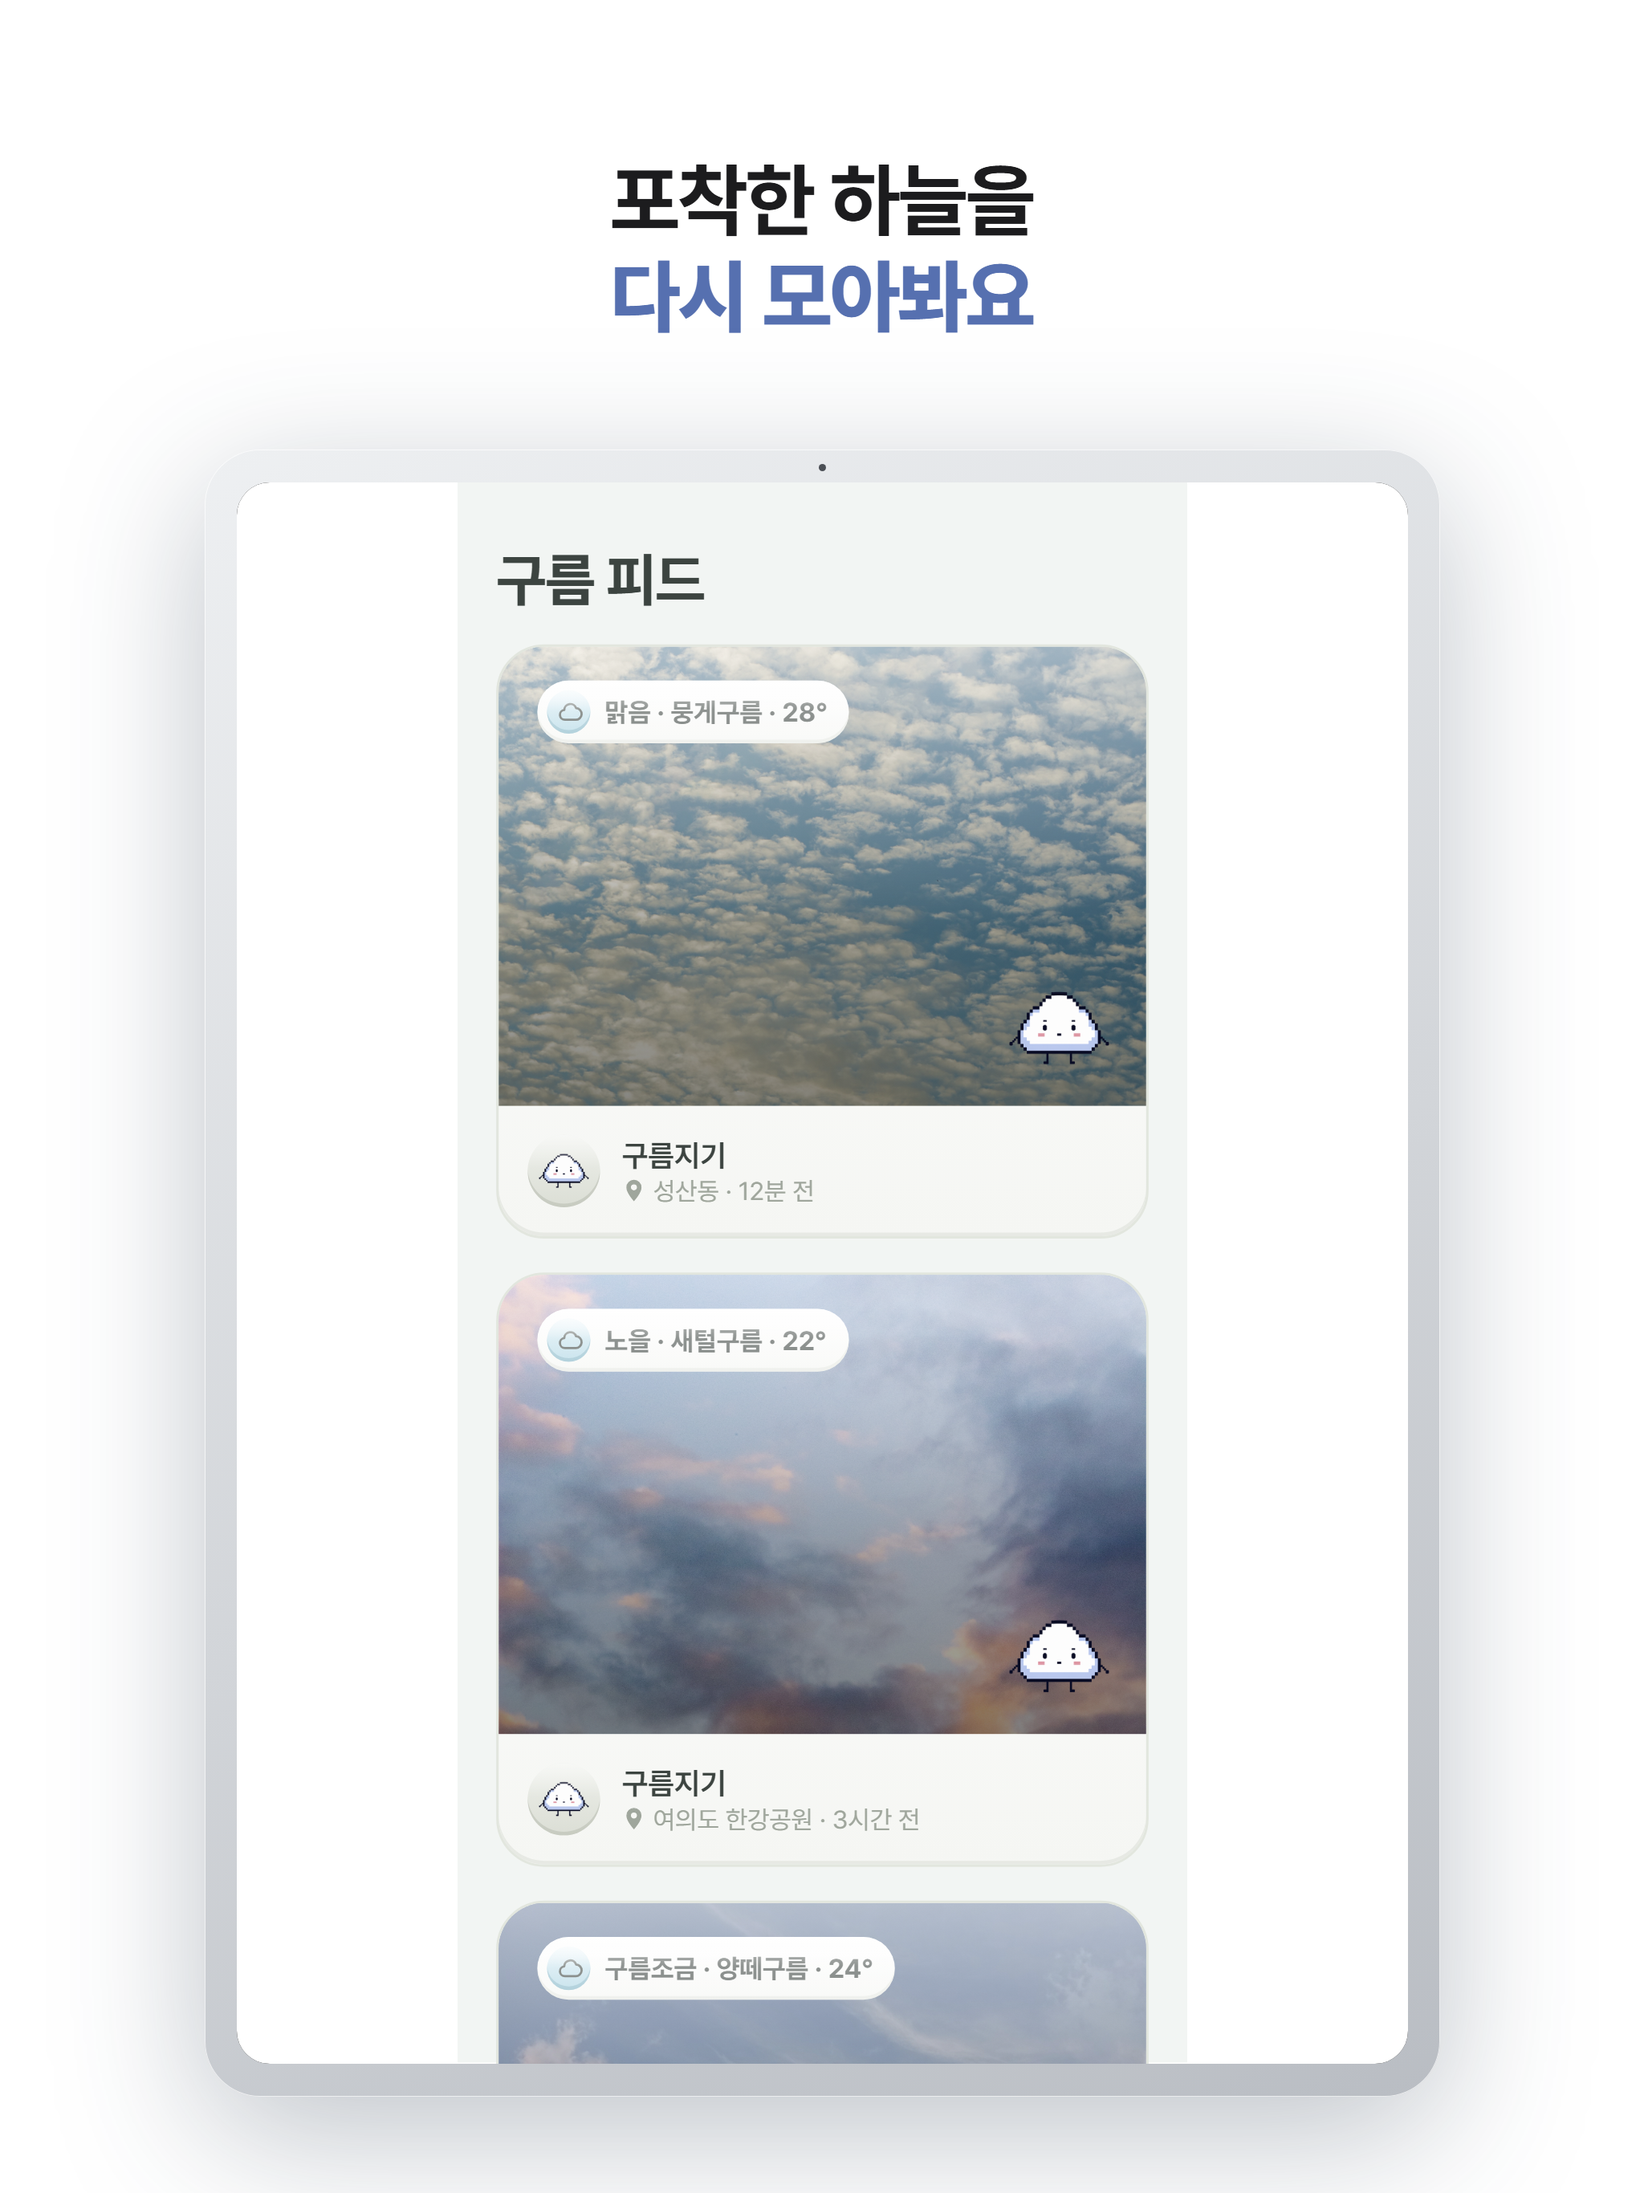
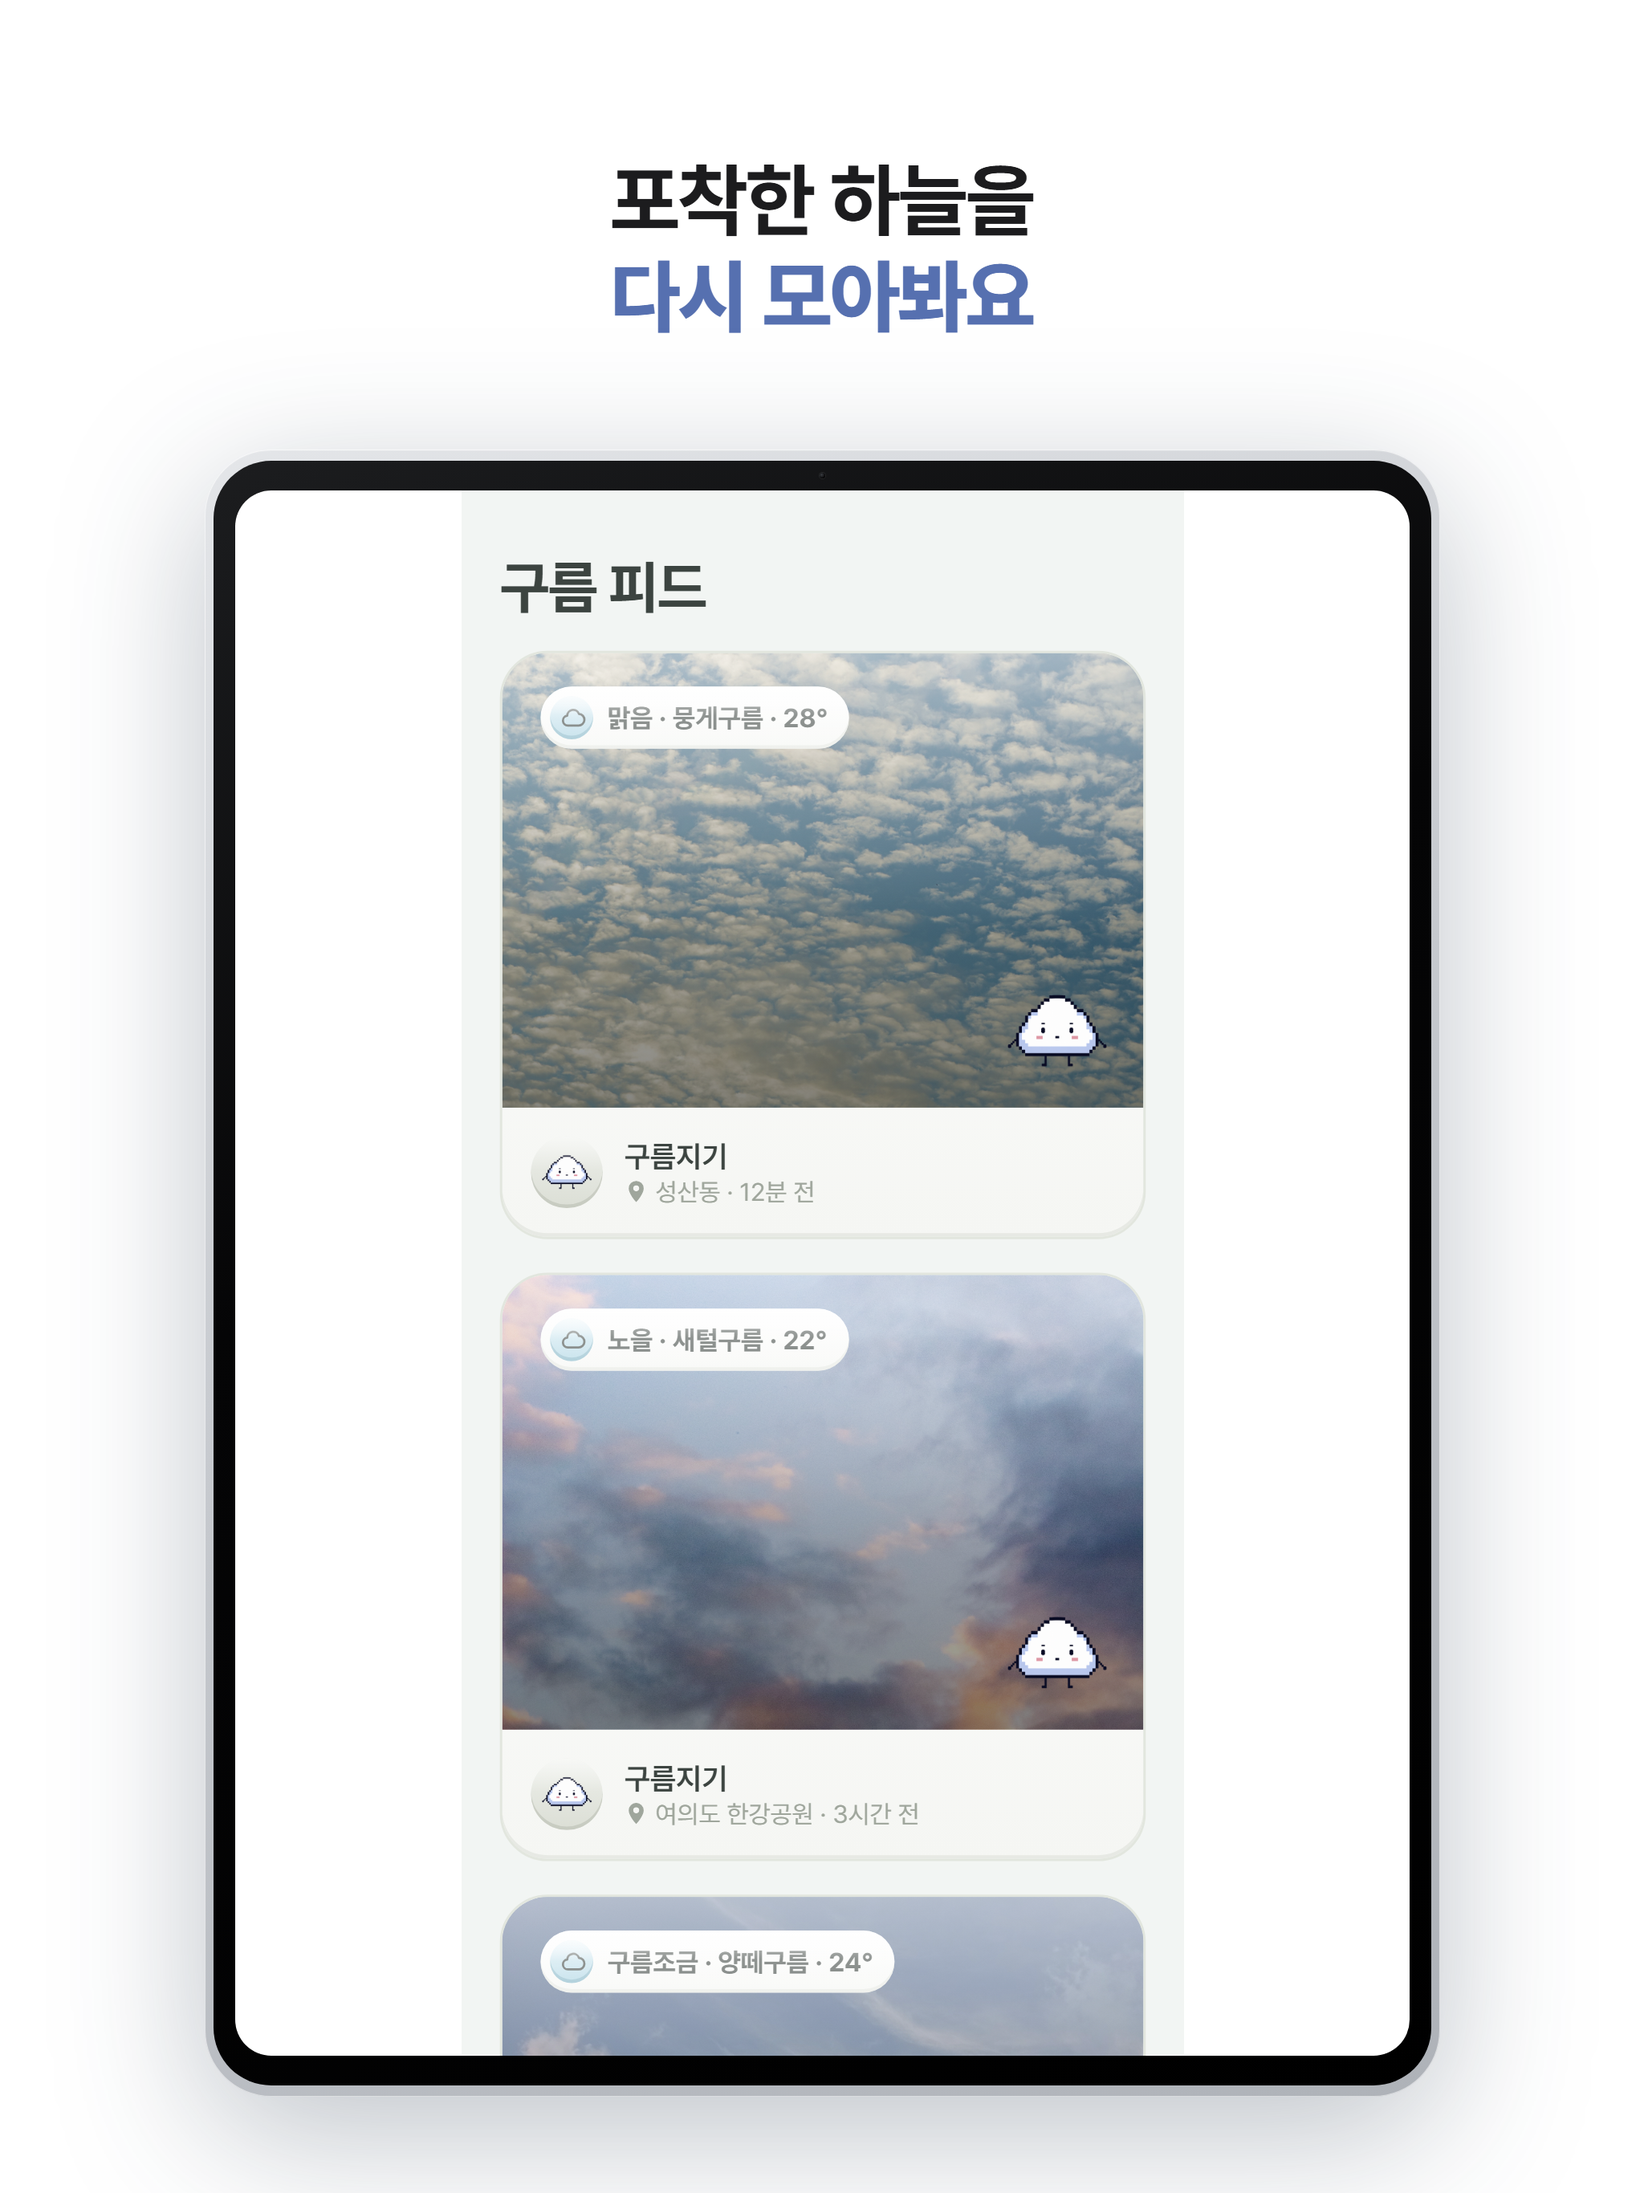
fix: give the iPad mockup an actual black bezel
IpadFrame previously went straight from the aluminum body to the (white)
screen content with no bezel layer in between, so nothing read as a
tablet border. Adds the black glass bezel ring real iPads actually show,
sized closer to a real device (thin aluminum sliver, concentric corner
radii, camera dot sitting in the bezel strip instead of floating outside
the body).

diff --git a/design/src/components/IpadFrame.tsx b/design/src/components/IpadFrame.tsx
@@ -9,23 +9,33 @@ type Props = {
   shadow?: boolean;
 };
 
-// No photoreal iPad asset on hand (only the iPhone Bezel.png), so this draws
-// a clean flat aluminum-style iPad silhouette in CSS: thin uniform bezel,
-// rounded body, single top-center camera dot — reads as "tablet" without
-// needing a bitmap. Percentages mirror PhoneFrame's cutout convention.
-const SCREEN_LEFT_PCT = 2.6;
-const SCREEN_TOP_PCT = 2.0;
-const SCREEN_W_PCT = 94.8;
-const SCREEN_H_PCT = 96.0;
+// Three concentric layers, closest to how a real iPad reads from the front:
+// a thin sliver of aluminum at the very edge, a black glass bezel — the
+// dominant border color on any real iPad, not the aluminum — and the
+// display itself, corners rounded slightly less than the body (concentric,
+// not near-square). The first pass skipped the black bezel layer entirely
+// and went straight from aluminum to the (white) screen content, so it
+// read as a rounded white card, not a tablet.
+const BODY_RADIUS_PCT = 5.4;
+const ALU_INSET_PCT = 0.7;
+const SCREEN_INSET_PCT = 2.5;
+
+const pct = (base: number, p: number) => (base * p) / 100;
 
 export function getIpadScreenSize(width: number, height: number) {
-  return { width: Math.round((width * SCREEN_W_PCT) / 100), height: Math.round((height * SCREEN_H_PCT) / 100) };
+  return {
+    width: Math.round(width - 2 * pct(width, SCREEN_INSET_PCT)),
+    height: Math.round(height - 2 * pct(height, SCREEN_INSET_PCT)),
+  };
 }
 
 export default function IpadFrame({ width, height, rotateDeg = 0, children, style, shadow = true }: Props) {
-  const radius = Math.round(width * 0.045);
-  const screenRadius = Math.round(radius * 0.6);
-  const dot = Math.max(6, Math.round(width * 0.006));
+  const bodyRadius = Math.round(pct(width, BODY_RADIUS_PCT));
+  const bezelRadius = Math.max(2, Math.round(bodyRadius - pct(width, ALU_INSET_PCT)));
+  const screenRadius = Math.max(2, Math.round(bodyRadius - pct(width, SCREEN_INSET_PCT)));
+  const dot = Math.max(5, Math.round(width * 0.0045));
+  const dotTop = ALU_INSET_PCT + (SCREEN_INSET_PCT - ALU_INSET_PCT) / 2;
+
   return (
     <div
       style={{
@@ -37,22 +47,36 @@ export default function IpadFrame({ width, height, rotateDeg = 0, children, styl
         ...style,
       }}
     >
+      {/* aluminum chassis */}
       <div
         style={{
           position: "absolute",
           inset: 0,
-          borderRadius: radius,
-          background: "linear-gradient(155deg, #EEF0F2 0%, #D2D5D9 55%, #B9BDC3 100%)",
-          boxShadow: "inset 0 0 0 1px rgba(255,255,255,0.7)",
+          borderRadius: bodyRadius,
+          background: "linear-gradient(155deg, #E4E6E9 0%, #C7CACF 45%, #AEB2B8 100%)",
+          boxShadow: "inset 0 0 0 1px rgba(255,255,255,0.5), inset 0 1px 2px rgba(255,255,255,0.6)",
         }}
       />
+      {/* black glass bezel */}
       <div
         style={{
           position: "absolute",
-          left: `${SCREEN_LEFT_PCT}%`,
-          top: `${SCREEN_TOP_PCT}%`,
-          width: `${SCREEN_W_PCT}%`,
-          height: `${SCREEN_H_PCT}%`,
+          left: `${ALU_INSET_PCT}%`,
+          top: `${ALU_INSET_PCT}%`,
+          right: `${ALU_INSET_PCT}%`,
+          bottom: `${ALU_INSET_PCT}%`,
+          borderRadius: bezelRadius,
+          background: "linear-gradient(155deg, #1c1d1f 0%, #050506 40%, #000000 100%)",
+        }}
+      />
+      {/* screen */}
+      <div
+        style={{
+          position: "absolute",
+          left: `${SCREEN_INSET_PCT}%`,
+          top: `${SCREEN_INSET_PCT}%`,
+          right: `${SCREEN_INSET_PCT}%`,
+          bottom: `${SCREEN_INSET_PCT}%`,
           borderRadius: screenRadius,
           overflow: "hidden",
           background: "#000",
@@ -60,16 +84,19 @@ export default function IpadFrame({ width, height, rotateDeg = 0, children, styl
       >
         {children}
       </div>
+      {/* front camera, sitting in the black bezel strip above the screen */}
       <div
         style={{
           position: "absolute",
-          top: Math.round(height * 0.009),
+          top: `${dotTop}%`,
           left: "50%",
           width: dot,
           height: dot,
           marginLeft: -dot / 2,
+          marginTop: -dot / 2,
           borderRadius: "50%",
-          background: "#4B4F55",
+          background: "radial-gradient(circle at 35% 35%, #3a3d42, #050506 70%)",
+          boxShadow: "0 0 0 1px rgba(255,255,255,0.08)",
         }}
       />
     </div>
